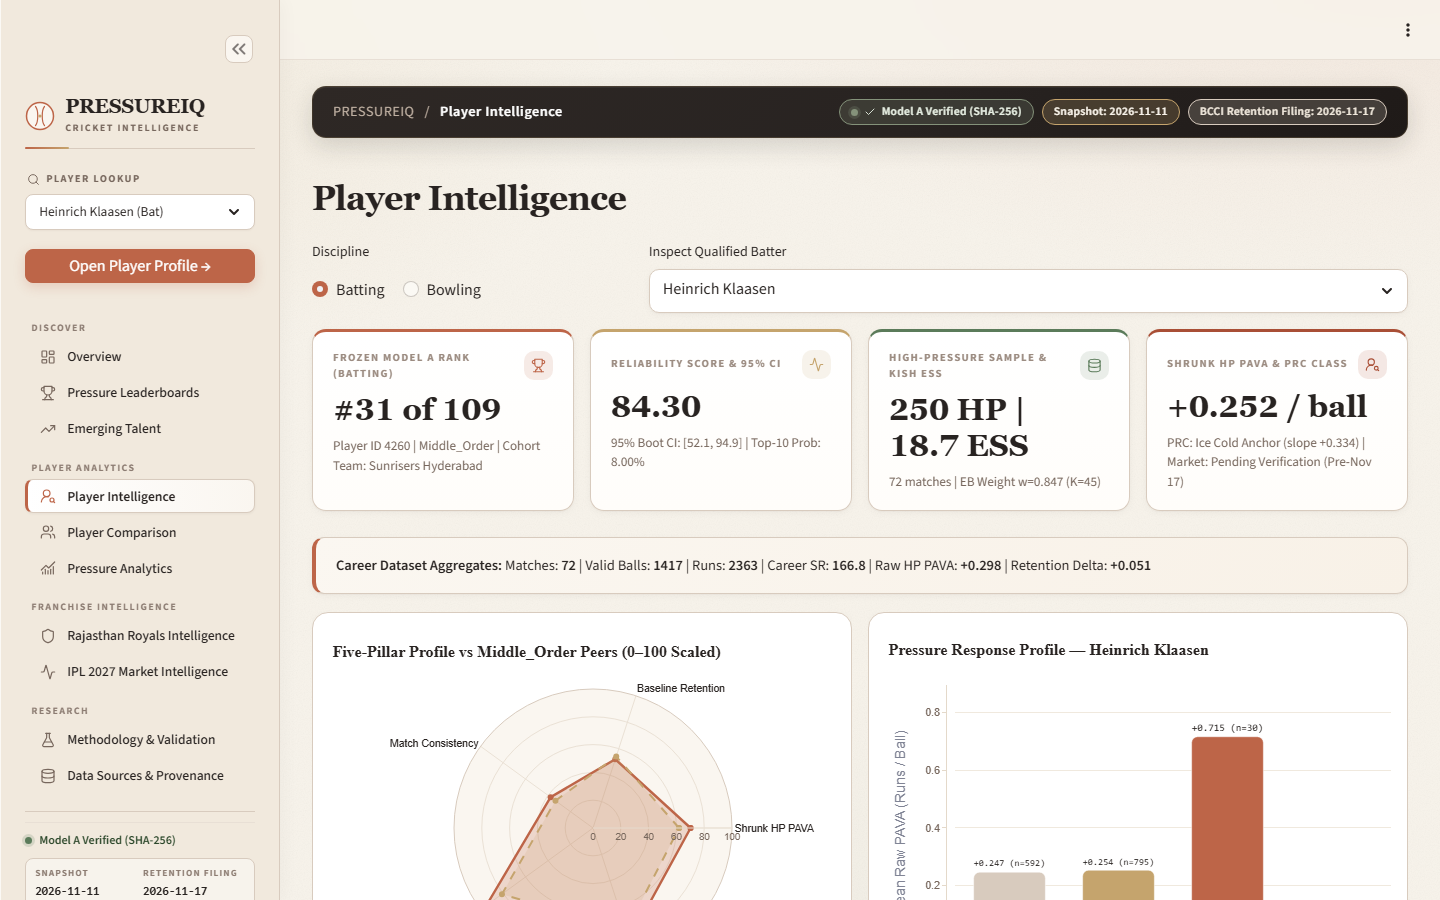
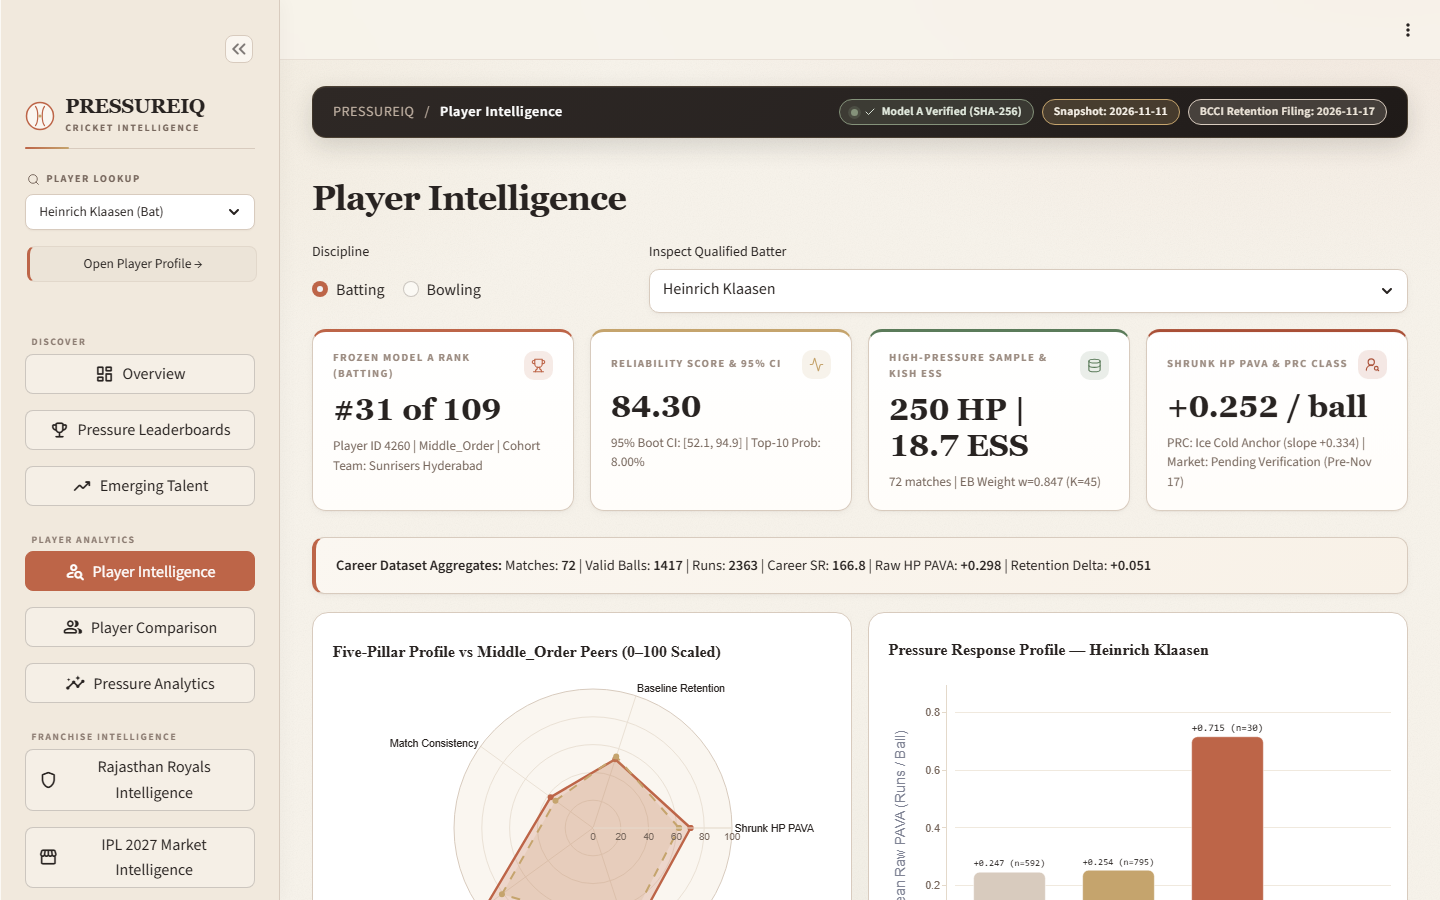
fix(dashboard): scope sidebar styling to aria-expanded and use session-preserving button navigation (Pass 9)

Changed region(s): [[0.0, 0.2489, 0.1875, 0.9956]]

diff --git a/src/dashboard/styles.py b/src/dashboard/styles.py
@@ -129,14 +129,16 @@ html, body, [class*="stAppViewContainer"], .stApp {
 
 /* ---------- Sidebar Dimensions & Shell (270–290px desktop) ---------- */
 section[data-testid="stSidebar"] {
-    width: 280px !important;
-    min-width: 270px !important;
-    max-width: 290px !important;
     background: #F1E9DD !important;
     border-right: 1px solid var(--border-card) !important;
     box-shadow: 1px 0 0 rgba(255, 255, 255, 0.7) inset, 4px 0 16px rgba(40, 35, 33, 0.03) !important;
 }
-section[data-testid="stSidebar"] > div:first-child {
+section[data-testid="stSidebar"][aria-expanded="true"] {
+    width: 280px !important;
+    min-width: 270px !important;
+    max-width: 290px !important;
+}
+section[data-testid="stSidebar"][aria-expanded="true"] > div:first-child {
     padding-top: 1.2rem !important;
     padding-bottom: 1.5rem !important;
     padding-left: 0.95rem !important;
@@ -225,38 +227,13 @@ section[data-testid="stSidebar"] div[data-baseweb="select"] > div {
     border: 1px solid var(--border-card) !important;
     box-shadow: 0 1px 2px rgba(40, 35, 33, 0.04) !important;
 }
-section[data-testid="stSidebar"] div.stButton > button {
-    min-height: 34px !important;
-    height: 34px !important;
-    padding: 0 12px !important;
-    font-size: 0.8rem !important;
-    font-weight: 600 !important;
-    border-radius: 8px !important;
-    margin-top: 4px !important;
-    background: #FFFFFF !important;
-    border: 1px solid var(--border-card) !important;
-    color: #282321 !important;
-    box-shadow: 0 1px 2px rgba(40, 35, 33, 0.04) !important;
-}
-section[data-testid="stSidebar"] div.stButton > button:hover {
-    background: var(--accent-terracotta) !important;
-    border-color: var(--accent-terracotta) !important;
-    color: #FFFFFF !important;
-    box-shadow: 0 4px 12px rgba(189, 101, 72, 0.22) !important;
-}
 
 /* ---------- Navigation Structure & Custom Items (Sections 4 & 5) ---------- */
 .piq-sb-nav {
     display: flex;
     flex-direction: column;
-    gap: 4px;
-    margin-top: 12px;
-    margin-bottom: 16px;
-}
-.piq-sb-nav-group {
-    display: flex;
-    flex-direction: column;
-    margin-bottom: 2px;
+    margin-top: 10px;
+    margin-bottom: 14px;
 }
 .piq-sb-group-label {
     font-size: 0.62rem;
@@ -264,62 +241,96 @@ section[data-testid="stSidebar"] div.stButton > button:hover {
     letter-spacing: 0.14em;
     text-transform: uppercase;
     color: #8C7C72;
-    padding: 8px 6px 4px 6px;
+    padding: 10px 6px 4px 6px;
     user-select: none;
 }
-.piq-sb-group-items {
-    display: flex;
-    flex-direction: column;
-    gap: 2px;
-}
-.piq-sb-nav-item {
-    display: flex;
-    align-items: center;
-    gap: 10px;
-    padding: 7px 11px;
-    border-radius: 8px;
-    text-decoration: none !important;
+
+/* Sidebar navigation buttons (replaces default button look with editorial pills) */
+section[data-testid="stSidebar"] div.stButton > button {
+    display: flex !important;
+    align-items: center !important;
+    justify-content: flex-start !important;
+    text-align: left !important;
+    gap: 10px !important;
+    min-height: 36px !important;
+    height: 36px !important;
+    padding: 0 10px !important;
+    border-radius: 8px !important;
+    font-size: 0.84rem !important;
+    font-weight: 500 !important;
+    line-height: 1.3 !important;
+    border: 1px solid transparent !important;
+    border-left: 3px solid transparent !important;
+    background: transparent !important;
     color: #282321 !important;
-    font-size: 0.85rem;
-    font-weight: 500;
-    line-height: 1.3;
-    border: 1px solid transparent;
-    border-left: 3px solid transparent;
-    transition: all 160ms var(--ease);
-    cursor: pointer;
-    background: transparent;
+    box-shadow: none !important;
+    transition: all 160ms var(--ease) !important;
+    width: 100% !important;
+    margin-bottom: 2px !important;
 }
-.piq-sb-nav-item:hover {
+section[data-testid="stSidebar"] div.stButton > button p {
+    font-size: 0.84rem !important;
+    color: #282321 !important;
+    margin: 0 !important;
+}
+
+/* Inactive button hover */
+section[data-testid="stSidebar"] div.stButton > button:hover {
     background: rgba(234, 225, 213, 0.75) !important;
+    border-color: rgba(216, 203, 190, 0.5) !important;
+    border-left-color: var(--accent-terracotta) !important;
     color: #282321 !important;
-    transform: translateX(2px);
-    border-color: rgba(216, 203, 190, 0.5);
-    border-left-color: var(--accent-terracotta);
+    transform: translateX(2px) !important;
+    box-shadow: none !important;
 }
-.piq-sb-nav-item.is-active {
+
+/* Active primary navigation button */
+section[data-testid="stSidebar"] div.stButton > button[kind="primary"] {
     background: linear-gradient(90deg, #FFFFFF 0%, #FAF6F0 100%) !important;
     border: 1px solid #D8CBBE !important;
     border-left: 3px solid var(--accent-terracotta) !important;
     color: #282321 !important;
     font-weight: 600 !important;
-    box-shadow: 0 1px 3px rgba(40, 35, 33, 0.05);
+    box-shadow: 0 1px 3px rgba(40, 35, 33, 0.05) !important;
+    transform: none !important;
 }
-.piq-sb-nav-icon {
-    display: flex;
-    align-items: center;
-    justify-content: center;
-    flex-shrink: 0;
-    width: 18px;
-    height: 18px;
+section[data-testid="stSidebar"] div.stButton > button[kind="primary"] p {
+    font-weight: 600 !important;
+    color: #282321 !important;
 }
-.piq-sb-nav-item.is-active .piq-sb-nav-icon svg {
-    stroke: var(--accent-terracotta) !important;
+
+/* Material symbol icons inside sidebar buttons */
+section[data-testid="stSidebar"] div.stButton > button span[data-testid="stIconMaterial"] {
+    font-size: 17px !important;
+    color: #77675D !important;
+    transition: color 140ms var(--ease) !important;
 }
-.piq-sb-nav-text {
-    flex: 1;
-    white-space: nowrap;
-    overflow: hidden;
-    text-overflow: ellipsis;
+section[data-testid="stSidebar"] div.stButton > button[kind="primary"] span[data-testid="stIconMaterial"] {
+    color: var(--accent-terracotta) !important;
+}
+
+/* Distinct styling for Open Player Profile launcher button */
+section[data-testid="stSidebar"] div[data-testid="stVerticalBlock"] > div.stButton:has(button[key="global_jump_btn"]) > button,
+section[data-testid="stSidebar"] div.stButton > button:has(p:contains("Open Player Profile")) {
+    background: #BD6548 !important;
+    border: 1px solid #BD6548 !important;
+    border-left: 1px solid #BD6548 !important;
+    color: #FFFFFF !important;
+    justify-content: center !important;
+    text-align: center !important;
+    font-weight: 600 !important;
+    margin-top: 4px !important;
+    box-shadow: 0 2px 6px rgba(189, 101, 72, 0.22) !important;
+}
+section[data-testid="stSidebar"] div.stButton > button:has(p:contains("Open Player Profile")) p {
+    color: #FFFFFF !important;
+    font-weight: 600 !important;
+}
+section[data-testid="stSidebar"] div.stButton > button:has(p:contains("Open Player Profile")):hover {
+    background: #A94F36 !important;
+    border-color: #A94F36 !important;
+    color: #FFFFFF !important;
+    transform: translateY(-1px) !important;
 }
 
 /* ---------- Bottom Status Area (Section 7) ---------- */
@@ -410,12 +421,12 @@ button[data-testid="stSidebarCollapseButton"]:hover,
 }
 
 @media (max-width: 1024px) and (min-width: 768px) {
-    section[data-testid="stSidebar"] {
+    section[data-testid="stSidebar"][aria-expanded="true"] {
         width: 260px !important;
         min-width: 250px !important;
         max-width: 270px !important;
     }
-    section[data-testid="stSidebar"] > div:first-child {
+    section[data-testid="stSidebar"][aria-expanded="true"] > div:first-child {
         width: 260px !important;
         padding-left: 0.85rem !important;
         padding-right: 0.85rem !important;
@@ -423,12 +434,12 @@ button[data-testid="stSidebarCollapseButton"]:hover,
 }
 
 @media (max-width: 767px) {
-    section[data-testid="stSidebar"] {
+    section[data-testid="stSidebar"][aria-expanded="true"] {
         width: 280px !important;
         max-width: 85vw !important;
         box-shadow: 0 0 24px rgba(40, 35, 33, 0.35) !important;
     }
-    section[data-testid="stSidebar"] > div:first-child {
+    section[data-testid="stSidebar"][aria-expanded="true"] > div:first-child {
         width: 100% !important;
     }
 }

diff --git a/src/dashboard/design_tokens.py b/src/dashboard/design_tokens.py
@@ -79,22 +79,22 @@ PLOTLY_SERIES = [
 
 NAV_ITEMS = [
     # DISCOVER Group
-    {"id": "Overview", "label": "Overview", "icon": "layout-dashboard", "group": "DISCOVER", "subtitle": "Executive intelligence & Model A summary"},
-    {"id": "Pressure Leaderboards", "label": "Pressure Leaderboards", "icon": "trophy", "group": "DISCOVER", "subtitle": "Frozen Batters (109) & Bowlers (147) cohorts"},
-    {"id": "Emerging Talent", "label": "Emerging Talent", "icon": "trending-up", "group": "DISCOVER", "subtitle": "Opportunity-aware uncapped & prospect scouting"},
+    {"id": "Overview", "label": "Overview", "icon": "layout-dashboard", "mat_icon": ":material/dashboard:", "group": "DISCOVER", "subtitle": "Executive intelligence & Model A summary"},
+    {"id": "Pressure Leaderboards", "label": "Pressure Leaderboards", "icon": "trophy", "mat_icon": ":material/emoji_events:", "group": "DISCOVER", "subtitle": "Frozen Batters (109) & Bowlers (147) cohorts"},
+    {"id": "Emerging Talent", "label": "Emerging Talent", "icon": "trending-up", "mat_icon": ":material/trending_up:", "group": "DISCOVER", "subtitle": "Opportunity-aware uncapped & prospect scouting"},
 
     # PLAYER ANALYTICS Group
-    {"id": "Player Intelligence", "label": "Player Intelligence", "icon": "user-round-search", "group": "PLAYER ANALYTICS", "subtitle": "Individual pressure profile & match evidence"},
-    {"id": "Player Comparison", "label": "Player Comparison", "icon": "users", "group": "PLAYER ANALYTICS", "subtitle": "Head-to-head multi-player telemetry comparator"},
-    {"id": "Pressure Analytics", "label": "Pressure Analytics", "icon": "chart-no-axes-combined", "group": "PLAYER ANALYTICS", "subtitle": "BPI, BoPI, PAVA & expected-outcome physics"},
+    {"id": "Player Intelligence", "label": "Player Intelligence", "icon": "user-round-search", "mat_icon": ":material/person_search:", "group": "PLAYER ANALYTICS", "subtitle": "Individual pressure profile & match evidence"},
+    {"id": "Player Comparison", "label": "Player Comparison", "icon": "users", "mat_icon": ":material/group:", "group": "PLAYER ANALYTICS", "subtitle": "Head-to-head multi-player telemetry comparator"},
+    {"id": "Pressure Analytics", "label": "Pressure Analytics", "icon": "chart-no-axes-combined", "mat_icon": ":material/insights:", "group": "PLAYER ANALYTICS", "subtitle": "BPI, BoPI, PAVA & expected-outcome physics"},
 
     # FRANCHISE INTELLIGENCE Group
-    {"id": "Rajasthan Royals Intelligence", "label": "Rajasthan Royals Intelligence", "icon": "shield", "group": "FRANCHISE INTELLIGENCE", "subtitle": "SMS Jaipur tactical fit vs verified availability"},
-    {"id": "IPL 2027 Market Intelligence", "label": "IPL 2027 Market Intelligence", "icon": "activity", "group": "FRANCHISE INTELLIGENCE", "subtitle": "All 10 franchises, retentions, trades & sources"},
+    {"id": "Rajasthan Royals Intelligence", "label": "Rajasthan Royals Intelligence", "icon": "shield", "mat_icon": ":material/shield:", "group": "FRANCHISE INTELLIGENCE", "subtitle": "SMS Jaipur tactical fit vs verified availability"},
+    {"id": "IPL 2027 Market Intelligence", "label": "IPL 2027 Market Intelligence", "icon": "activity", "mat_icon": ":material/storefront:", "group": "FRANCHISE INTELLIGENCE", "subtitle": "All 10 franchises, retentions, trades & sources"},
 
     # RESEARCH Group
-    {"id": "Methodology & Validation", "label": "Methodology & Validation", "icon": "flask-conical", "group": "RESEARCH", "subtitle": "Formulas, LightGBM calibration & bootstrap audit"},
-    {"id": "Data Sources & Provenance", "label": "Data Sources & Provenance", "icon": "database", "group": "RESEARCH", "subtitle": "Lineage, checksums, missingness & change log"},
+    {"id": "Methodology & Validation", "label": "Methodology & Validation", "icon": "flask-conical", "mat_icon": ":material/science:", "group": "RESEARCH", "subtitle": "Formulas, LightGBM calibration & bootstrap audit"},
+    {"id": "Data Sources & Provenance", "label": "Data Sources & Provenance", "icon": "database", "mat_icon": ":material/database:", "group": "RESEARCH", "subtitle": "Lineage, checksums, missingness & change log"},
 ]
 
 NAV_LABELS = [item["label"] for item in NAV_ITEMS]

diff --git a/src/dashboard/components.py b/src/dashboard/components.py
@@ -347,28 +347,36 @@ def render_sidebar_lookup(bundle: Any) -> None:
             st.rerun()
 
 
+def _on_nav_item_click(target_page: str) -> None:
+    """Callback to switch page within existing Streamlit session, preserving state (CodeRabbit Pass 9)."""
+    st.session_state["active_page"] = target_page
+    try:
+        st.query_params["page"] = target_page
+    except Exception:
+        pass
+
+
 def render_sidebar_navigation(active_page: str) -> None:
-    """Render grouped luxury editorial navigation links (User Requirements Sections 4 & 5)."""
-    html_parts = ['<nav class="piq-sb-nav" aria-label="Sidebar Navigation">']
+    """Render grouped luxury editorial navigation buttons preserving Streamlit session state (User Requirements Sections 4 & 5)."""
+    st.sidebar.markdown('<div class="piq-sb-nav" role="navigation" aria-label="Sidebar Navigation">', unsafe_allow_html=True)
     for grp in NAV_GROUPS:
-        html_parts.append('<div class="piq-sb-nav-group">')
-        html_parts.append(f'<div class="piq-sb-group-label">{html.escape(grp["group"])}</div>')
-        html_parts.append('<div class="piq-sb-group-items">')
+        st.sidebar.markdown(f'<div class="piq-sb-group-label">{html.escape(grp["group"])}</div>', unsafe_allow_html=True)
         for item in grp["items"]:
             is_active = (item["label"] == active_page)
-            active_cls = " is-active" if is_active else ""
-            icon_color = "#BD6548" if is_active else "#77675D"
-            icon_svg = svg_icon(item["icon"], 16, icon_color)
-            encoded_label = urllib.parse.quote_plus(item["label"])
-            html_parts.append(
-                f'<a href="?page={encoded_label}" target="_self" class="piq-sb-nav-item{active_cls}" title="{html.escape(item.get("subtitle", item["label"]))}">'
-                f'<span class="piq-sb-nav-icon">{icon_svg}</span>'
-                f'<span class="piq-sb-nav-text">{html.escape(item["label"])}</span>'
-                f'</a>'
+            btn_type = "primary" if is_active else "secondary"
+            btn_key = f"sb_nav_btn_{item['id']}"
+            mat_icon = item.get("mat_icon")
+            st.sidebar.button(
+                item["label"],
+                key=btn_key,
+                icon=mat_icon,
+                type=btn_type,
+                use_container_width=True,
+                help=item.get("subtitle", item["label"]),
+                on_click=_on_nav_item_click,
+                args=(item["label"],),
             )
-        html_parts.append('</div></div>')
-    html_parts.append('</nav>')
-    st.sidebar.markdown("".join(html_parts), unsafe_allow_html=True)
+    st.sidebar.markdown('</div>', unsafe_allow_html=True)
 
 
 def render_sidebar_status(frozen_ok: bool) -> None:
